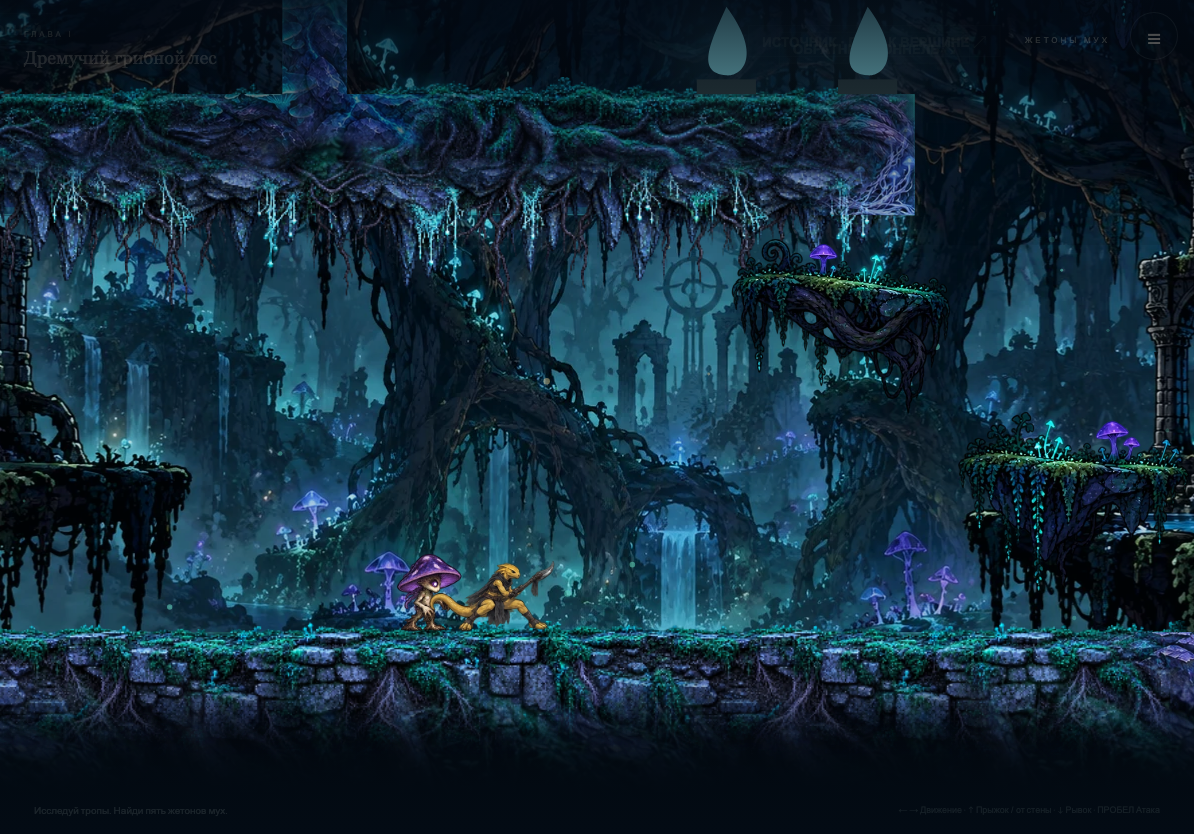
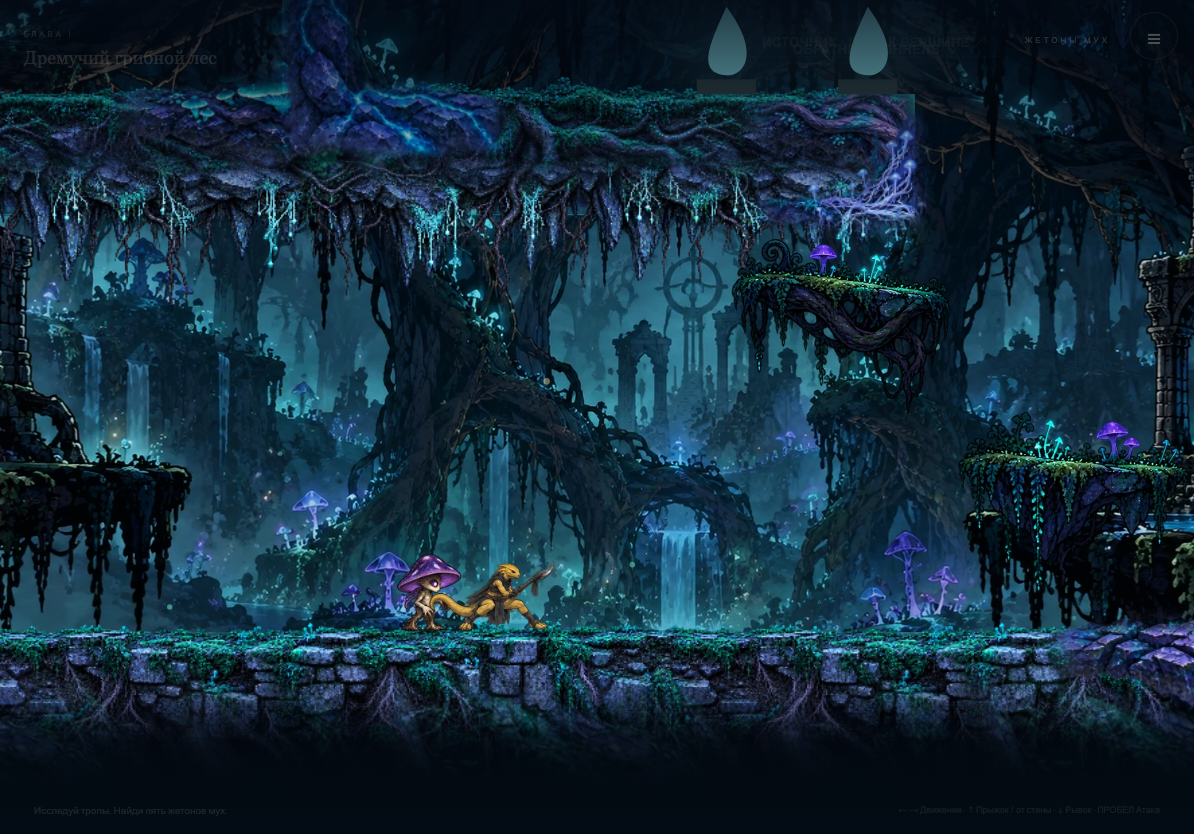
Render corner variants across short steps and soften their clipping

Changed region(s): [[0.093, 0.0312, 0.4338, 0.1871], [0.6198, 0.0935, 0.7747, 0.2806], [0.8677, 0.717, 1.0, 0.8417]]

diff --git a/src/forest-cave-surfaces.js b/src/forest-cave-surfaces.js
@@ -17,6 +17,26 @@ function layout(faces) {
 const prepared = new WeakMap();
 const surfaceMasks = new WeakMap();
 const views = new WeakMap();
+const connectionViews = new WeakMap();
+const connectionMasks = new WeakMap();
+
+function connectionMask(world, solid) {
+  let cached = connectionMasks.get(world);
+  if (cached?.solid === solid) return cached.canvas;
+  const canvas = document.createElement("canvas");
+  canvas.width = Math.ceil(world.width / 2);
+  canvas.height = Math.ceil(world.height / 2);
+  const g = canvas.getContext("2d");
+  g.fillStyle = "#000";
+  // A small soft allowance preserves the painted moss/stone silhouette at
+  // the collision plane, without extending solid-looking art into tunnels.
+  g.shadowColor = "#000";
+  g.shadowBlur = 8;
+  for (const s of solid)
+    if (!s.breakable) g.fillRect(s.x / 2, s.y / 2, s.w / 2, s.h / 2);
+  connectionMasks.set(world, { solid, canvas });
+  return canvas;
+}
 
 function surfaceMask(world, faces) {
   let cached = surfaceMasks.get(world);
@@ -236,11 +256,11 @@ function cornerPatch(image, frame) {
     10,
     ax,
     ay,
-    Math.min(w, h) * 0.55,
+    Math.max(w, h) * 0.95,
   );
   fade.addColorStop(0, "#000");
-  fade.addColorStop(0.35, "#000e");
-  fade.addColorStop(0.7, "#0005");
+  fade.addColorStop(0.55, "#000");
+  fade.addColorStop(0.8, "#0009");
   fade.addColorStop(1, "#0000");
   g.globalCompositeOperation = "destination-in";
   g.fillStyle = fade;
@@ -265,26 +285,30 @@ function cornerPatch(image, frame) {
 }
 
 export function drawCaveConnections(r, game, faces, solid) {
-  const g = r.ctx;
+  let view = connectionViews.get(r);
+  if (!view) connectionViews.set(r, (view = document.createElement("canvas")));
+  const width = Math.ceil(r.viewWidth);
+  if (view.width !== width || view.height !== 620) {
+    view.width = width;
+    view.height = 620;
+  }
+  const g = view.getContext("2d");
+  g.clearRect(0, 0, view.width, view.height);
   g.save();
-  // Join art cannot cover open air and imply a different collision boundary.
-  g.beginPath();
-  for (const s of solid) if (!s.breakable) g.rect(s.x, s.y, s.w, s.h);
-  g.clip();
-  g.globalAlpha *= 0.78;
+  g.translate(-game.camera, -game.cameraY);
   for (const corner of layout(faces).corners) {
     if (
-      corner.x < game.camera - 120 ||
-      corner.x > game.camera + r.viewWidth + 120 ||
-      corner.y < game.cameraY - 120 ||
-      corner.y > game.cameraY + 740
+      corner.x < game.camera - 256 ||
+      corner.x > game.camera + r.viewWidth + 256 ||
+      corner.y < game.cameraY - 256 ||
+      corner.y > game.cameraY + 876
     )
       continue;
     const image = r.assets["forest-cave-" + corner.kind],
       frame = atlas[corner.kind]?.[corner.frame];
     if (!image || !frame) continue;
     const patch = cornerPatch(image, frame),
-      scale = 0.56;
+      scale = corner.scale;
     g.drawImage(
       patch,
       corner.x - frame.anchor[0] * scale,
@@ -294,6 +318,20 @@ export function drawCaveConnections(r, game, faces, solid) {
     );
   }
   g.restore();
+  g.globalCompositeOperation = "destination-in";
+  g.drawImage(
+    connectionMask(game.world, solid),
+    game.camera / 2,
+    game.cameraY / 2,
+    r.viewWidth / 2,
+    310,
+    0,
+    0,
+    r.viewWidth,
+    620,
+  );
+  g.globalCompositeOperation = "source-over";
+  r.ctx.drawImage(view, game.camera, game.cameraY);
 }
 
 export function caveStoneTexture(r) {

diff --git a/tests/cave-decoration.test.js b/tests/cave-decoration.test.js
@@ -3,6 +3,7 @@ import assert from "node:assert/strict";
 import { caveSurfaces, caveCorners } from "../src/cave-decoration.js";
 import { exposedTerrainEdges } from "../src/wall-surfaces.js";
 import { surfaceFade } from "../src/surface-fade.js";
+import { buildForest } from "../src/forest.js";
 
 const surfaces = (solids) =>
   caveSurfaces(
@@ -24,6 +25,32 @@ test("join art distinguishes all four inner and outer corner orientations", () =
   assert.equal(inner.length, 4);
   assert.equal(new Set(inner.map((c) => c.kind)).size, 4);
   assert.ok(inner.every((c) => c.frame >= 8 && c.frame < 16));
+});
+
+test("short forest steps receive scaled corner art without losing rounded wall joins", () => {
+  const solid = buildForest().platforms.filter((s) => s.solid);
+  const corners = caveCorners(surfaces(solid));
+  const upper = corners.find((c) => c.x === 1530 && c.y === 500);
+  const lower = corners.find((c) => c.x === 1542 && c.y === 530);
+  assert.ok(upper && lower, "both ends of the 30-pixel step must be dressed");
+  assert.equal(upper.kind, "corners-floor-right");
+  assert.equal(upper.inner, false);
+  assert.equal(lower.kind, "corners-floor-left");
+  assert.equal(lower.inner, true);
+  assert.ok(upper.scale < 0.3 && lower.scale < 0.3);
+  assert.ok(
+    corners.some((c) => c.x === 1320 && c.y === 500 && c.inner),
+    "a rounded connection still registers to its main wall",
+  );
+  const ordered = (items) =>
+    items.sort(
+      (a, b) => a.x - b.x || a.y - b.y || a.kind.localeCompare(b.kind),
+    );
+  assert.deepEqual(
+    ordered(corners),
+    ordered(caveCorners(surfaces([...solid].reverse()))),
+    "collider order cannot reroll corner variants",
+  );
 });
 
 test("surface fade has round end caps, a smooth falloff, and a black interior", () => {

diff --git a/src/cave-decoration.js b/src/cave-decoration.js
@@ -41,7 +41,7 @@ export function caveSurfaces(faces) {
 }
 
 export function caveCorners(surfaces) {
-  const vertical = surfaces.filter((s) => !s.horizontal && s.b - s.a >= 40);
+  const vertical = surfaces.filter((s) => !s.horizontal);
   const corners = [];
   for (const h of surfaces.filter((s) => s.horizontal && s.b - s.a >= 40)) {
     for (const start of [true, false]) {
@@ -55,8 +55,26 @@ export function caveCorners(surfaces) {
           dy = Math.abs(vy - h.axis);
         if (dx > 48 || dy > 48) continue;
         const distance = dx + dy;
-        if (!closest || distance < closest.distance)
-          closest = { x: v.axis, y: h.axis, inner: !outer, distance };
+        // Prefer the main wall across the tiny bands of a rounded turn. If
+        // there is no long wall, a short step still needs its own join art.
+        const short = v.b - v.a < 40;
+        if (
+          !closest ||
+          (closest.short && !short) ||
+          (closest.short === short && distance < closest.distance)
+        )
+          closest = {
+            x: v.axis,
+            y: h.axis,
+            inner: !outer,
+            distance,
+            short,
+            scale: Math.min(
+              0.64,
+              Math.max(0.2, (v.b - v.a + dy) / 170),
+              Math.max(0.2, (h.b - h.a + dx) / 230),
+            ),
+          };
       }
       if (!closest) continue;
       const kind = `corners-${h.side === "top" ? "floor" : "ceiling"}-${start ? "left" : "right"}`;
